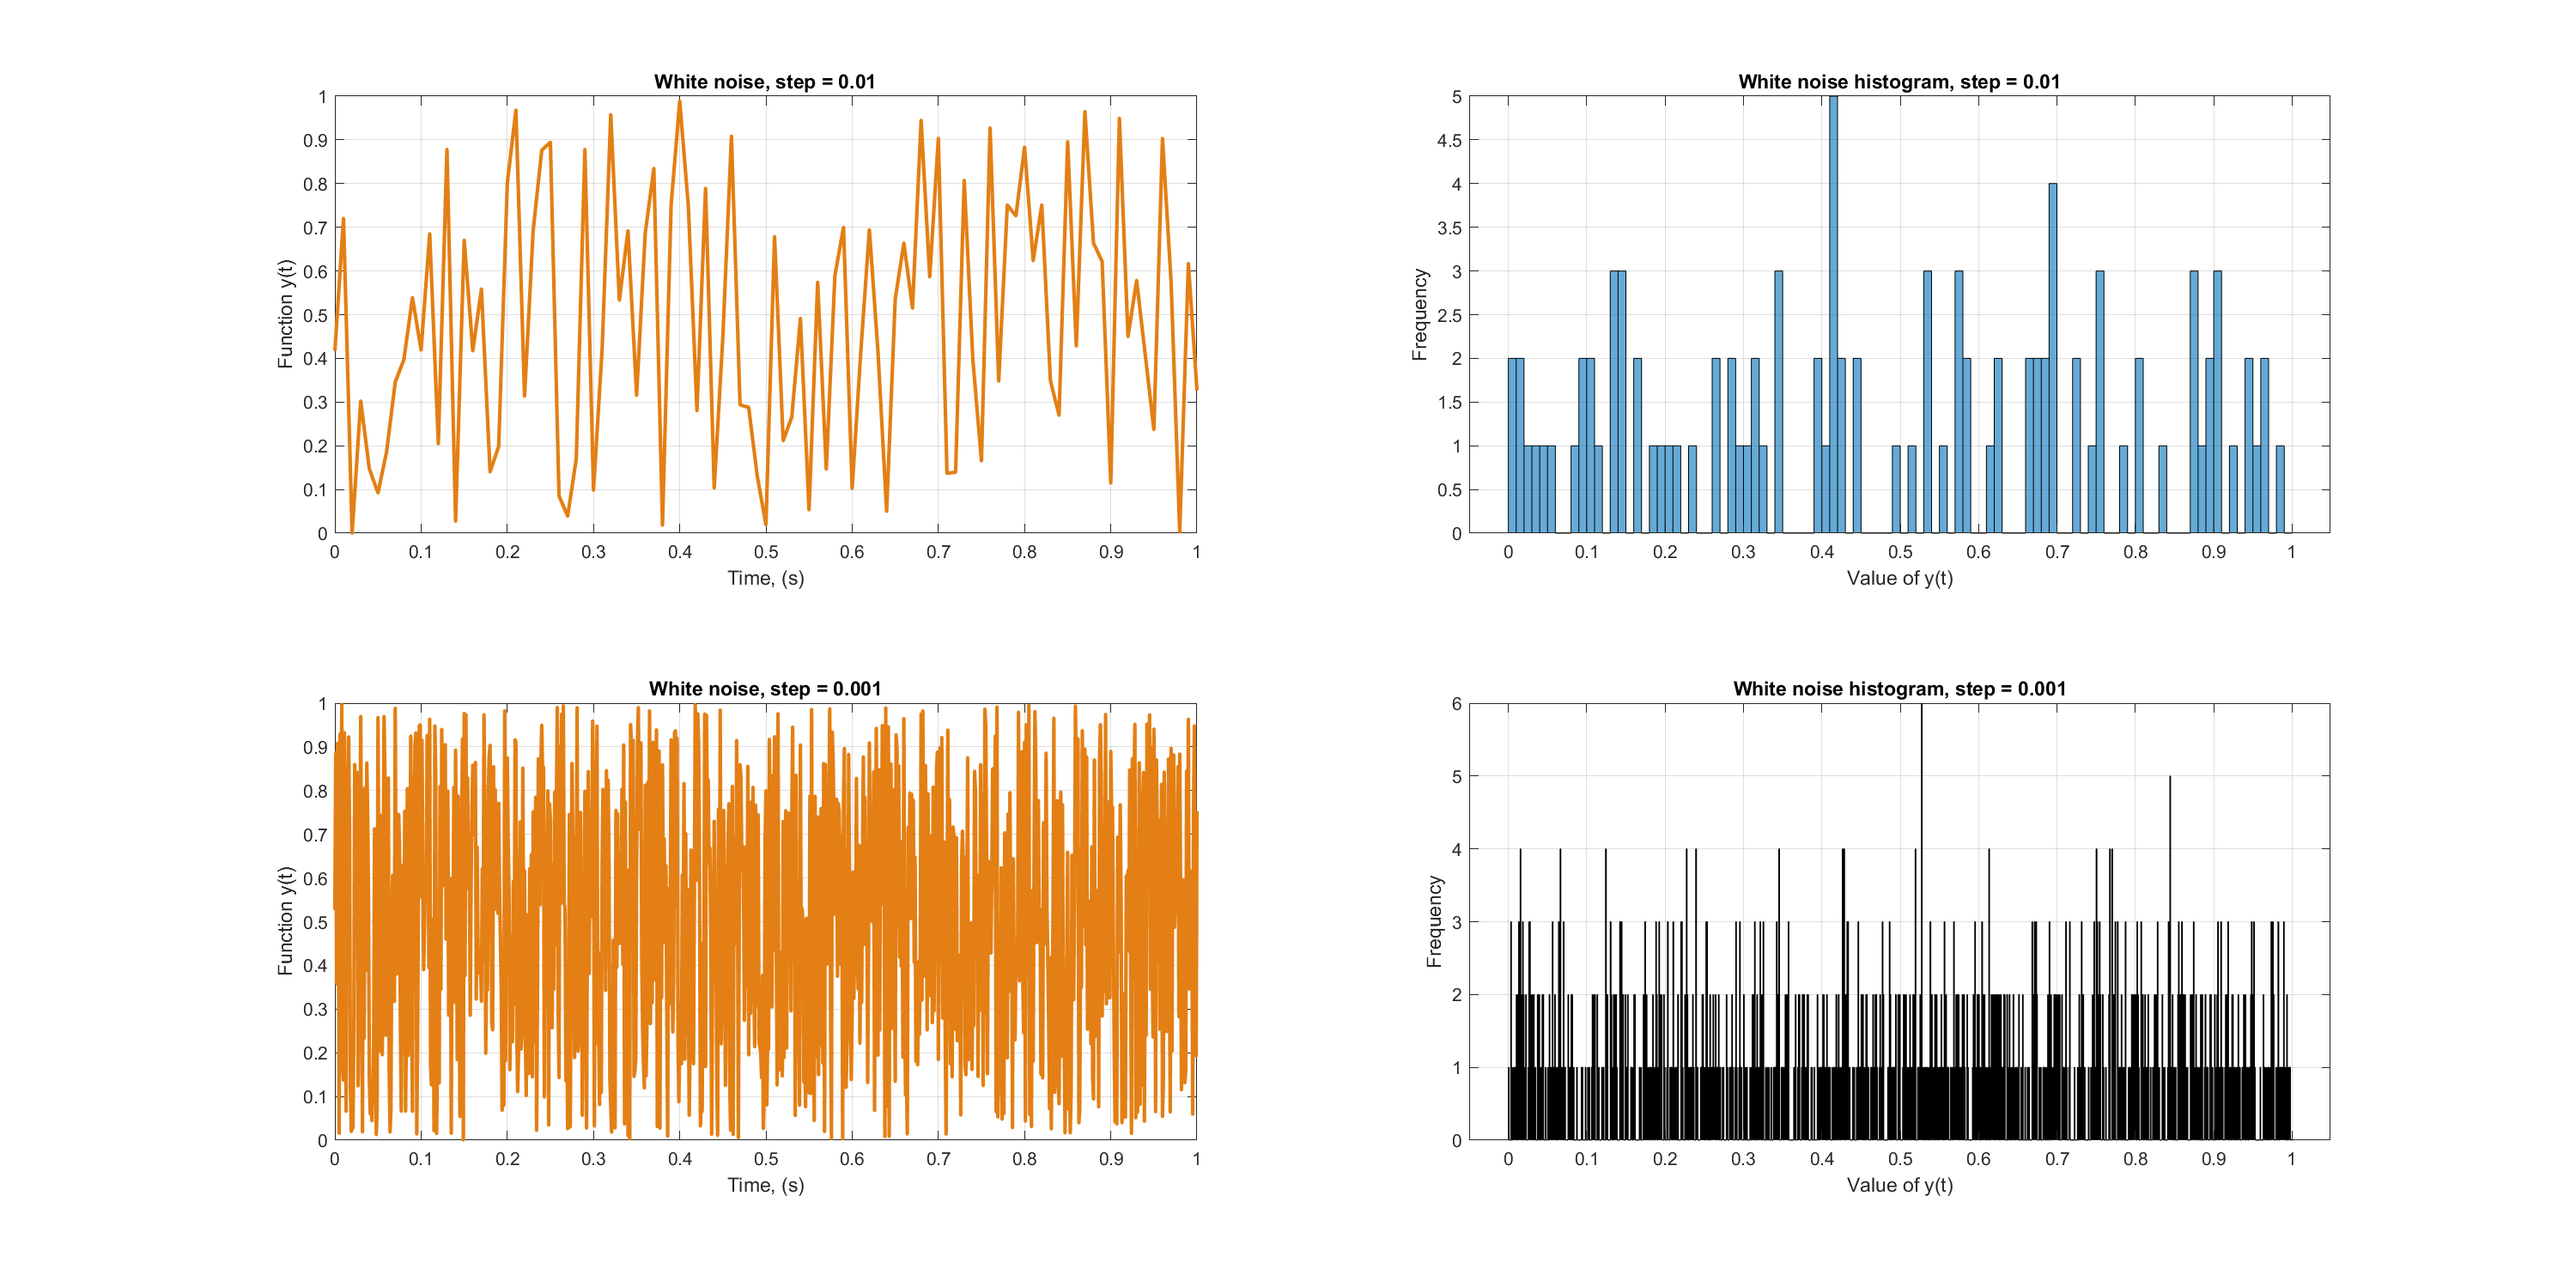
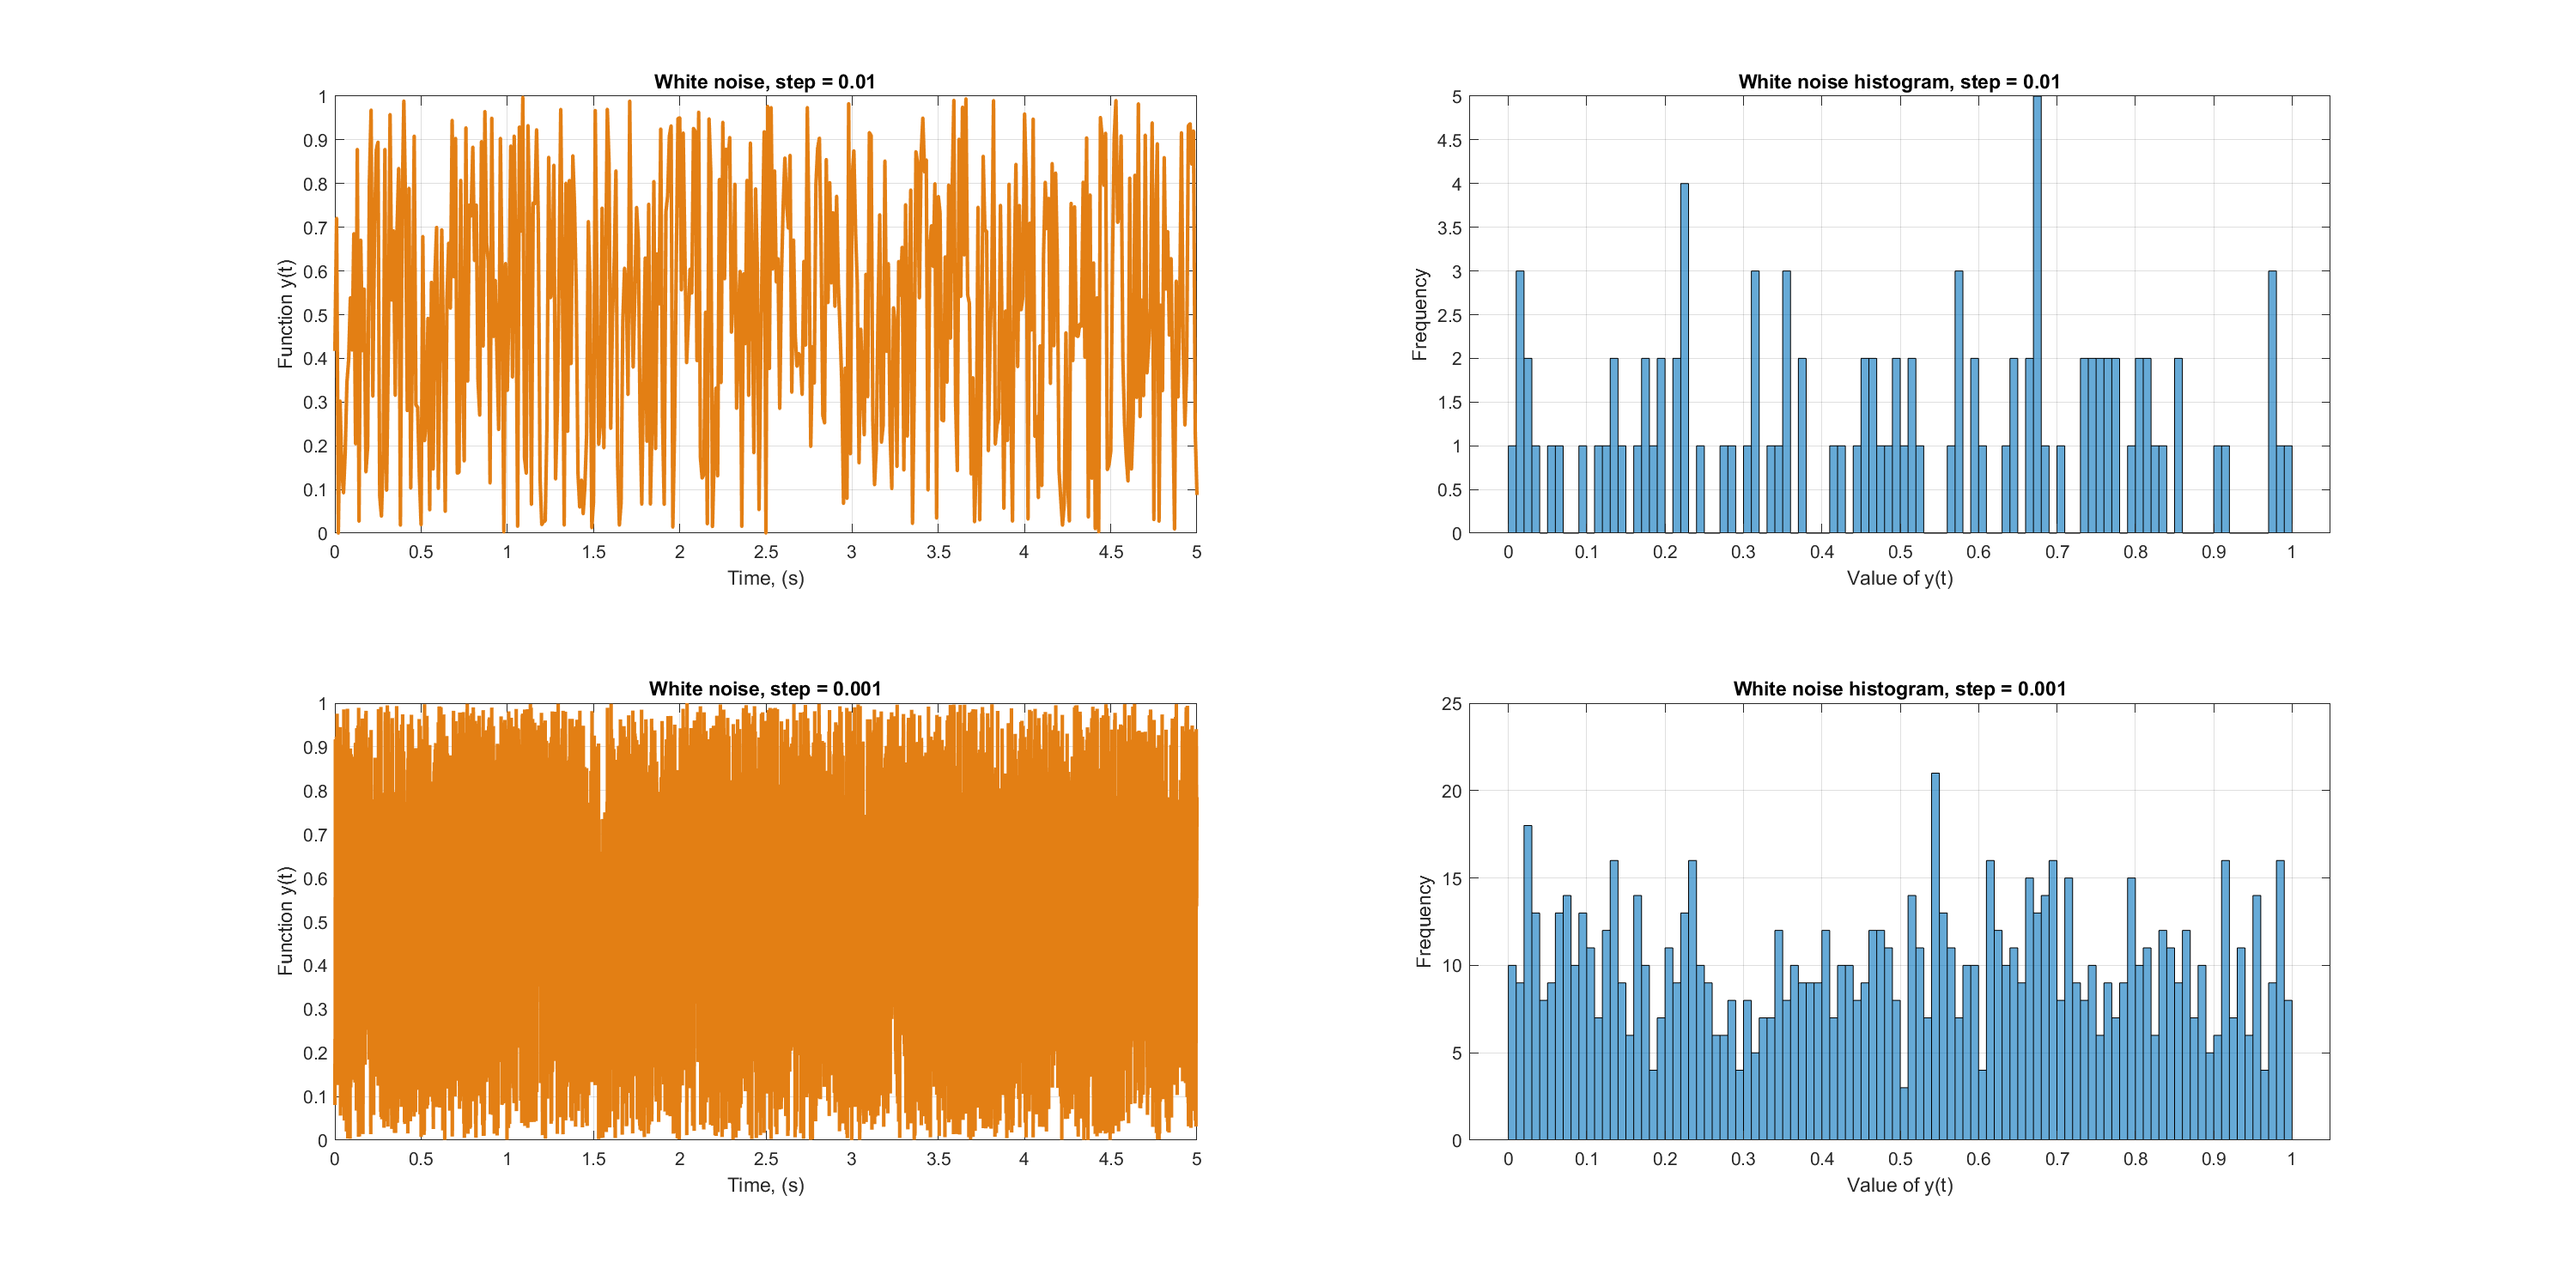
Update plot display and range

diff --git a/noise_filter/task_2/task_2.m b/noise_filter/task_2/task_2.m
@@ -47,7 +47,7 @@ xlabel('Time index n');  ylabel('Amplitude');
 legend('Original signal','Sum (s + d)', 'Filtered signal');  
 
 M = 5; b = ones(M, 1) / M; y = filter(b, 1, x);
-subplot(2, 2, 3);
+subplot(2, 2, 2);
 plot(m, s, 'LineWidth', 2, 'Color', '#0072BD'); hold on 
 plot(m, x, 'LineWidth', 2, 'Color', 'red');     hold on
 plot(m, y, 'LineWidth', 2, 'Color', '#77AC30'); hold off
@@ -56,7 +56,7 @@ xlabel('Time index n');  ylabel('Amplitude');
 legend('Original signal','Sum (s + d)', 'Filtered signal');  
 
 M = 10; b = ones(M, 1) / M; y = filter(b, 1, x);
-subplot(2, 2, [2 4]);
+subplot(2, 2, 3);
 plot(m, s, 'LineWidth', 2, 'Color', '#0072BD'); hold on 
 plot(m, x, 'LineWidth', 2, 'Color', 'red');     hold on
 plot(m, y, 'LineWidth', 2, 'Color', '#77AC30'); hold off
@@ -80,7 +80,7 @@ xlabel('Time index n');  ylabel('Amplitude');
 legend('Sum (s + d)', 'Original signal', 'Filtered signal'); 
 
 M = 50; b = ones(M, 1) / M; y = filter(b, 1, x);
-subplot(2, 2, 3);
+subplot(2, 2, 2);
 plot(m, x, 'LineWidth', 2, 'Color', '#EDB120'); hold on
 plot(m, s, 'LineWidth', 2, 'Color', 'red');     hold on 
 plot(m, y, 'LineWidth', 2, 'Color', '#77AC30'); hold off
@@ -89,7 +89,7 @@ xlabel('Time index n');  ylabel('Amplitude');
 legend('Sum (s + d)', 'Original signal', 'Filtered signal'); 
 
 M = 100; b = ones(M, 1) / M; y = filter(b, 1, x);
-subplot(2, 2, [2 4]);
+subplot(2, 2, 3);
 plot(m, x, 'LineWidth', 2, 'Color', '#EDB120'); hold on
 plot(m, s, 'LineWidth', 2, 'Color', 'red');     hold on 
 plot(m, y, 'LineWidth', 2, 'Color', '#77AC30'); hold off

diff --git a/noise_filter/task_1/task_1.m b/noise_filter/task_1/task_1.m
@@ -2,7 +2,7 @@
 rng(1)
 
 % 1. Study of random processes
-Ts = 0.01; t = 0:Ts:1; x1 = rand(1, length(t));
+Ts = 0.01; t = 0:Ts:5; x1 = rand(1, length(t));
 
 % 1.1. White noise (step = 0.01)
 f1 = figure(1);
@@ -12,13 +12,14 @@ grid on; title('White noise, step = 0.01');
 xlabel('Time, (s)'); ylabel('Function y(t)');
 
 % 1.2. White noise histogram 
+t = 0:Ts:1; x1 = rand(1, length(t));
 subplot(2, 2, 2);
 histogram(x1, t);
 grid on; title('White noise histogram, step = 0.01');
 xlabel('Value of y(t)'); ylabel('Frequency');
 
 % 1.3 White noise (step = 0.001)
-Ts = 0.001; t = 0:Ts:1; x2 = rand(1, length(t));
+Ts = 0.001; t = 0:Ts:5; x2 = rand(1, length(t));
 subplot(2, 2, 3);
 plot(t, x2, 'LineWidth', 2, 'Color', '#e37f14');
 grid on; title('White noise, step = 0.001');
@@ -26,7 +27,8 @@ xlabel('Time, (s)'); ylabel('Function y(t)');
 
 % 1.4. White noise histogram
 subplot(2, 2, 4);
-histogram(x2, t, 'FaceColor', "#0072BD");
+t = 0:Ts:1; x2 = rand(1, length(t)); 
+histogram(x2, t, "BinEdges", 0:0.01:1);
 grid on; title('White noise histogram, step = 0.001');
 xlabel('Value of y(t)'); ylabel('Frequency');
 saveas(f1, "1_1-1_4-noise-histogram.png");
